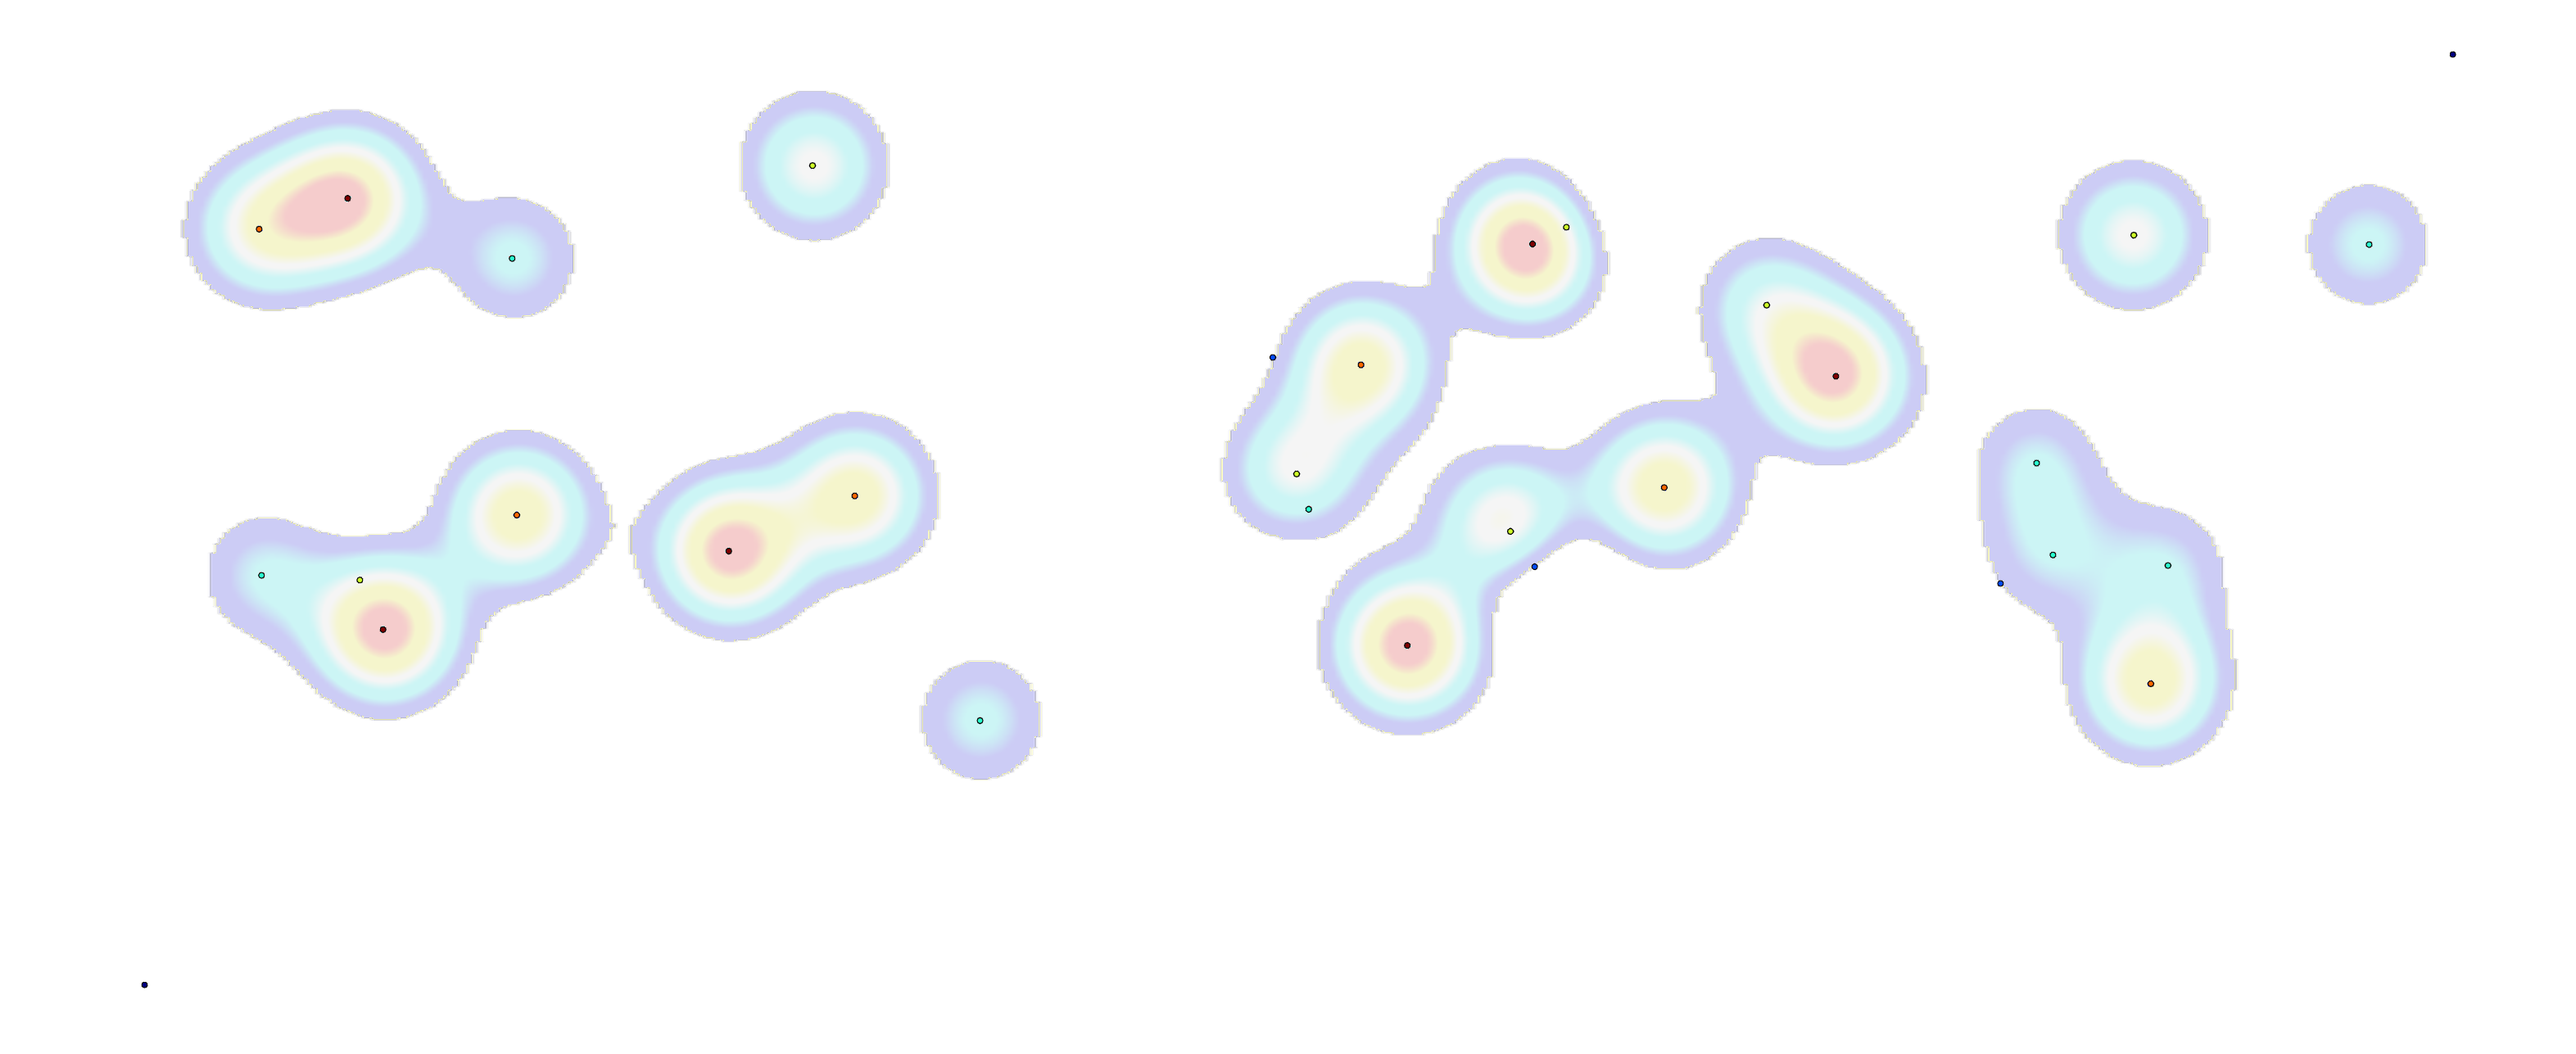
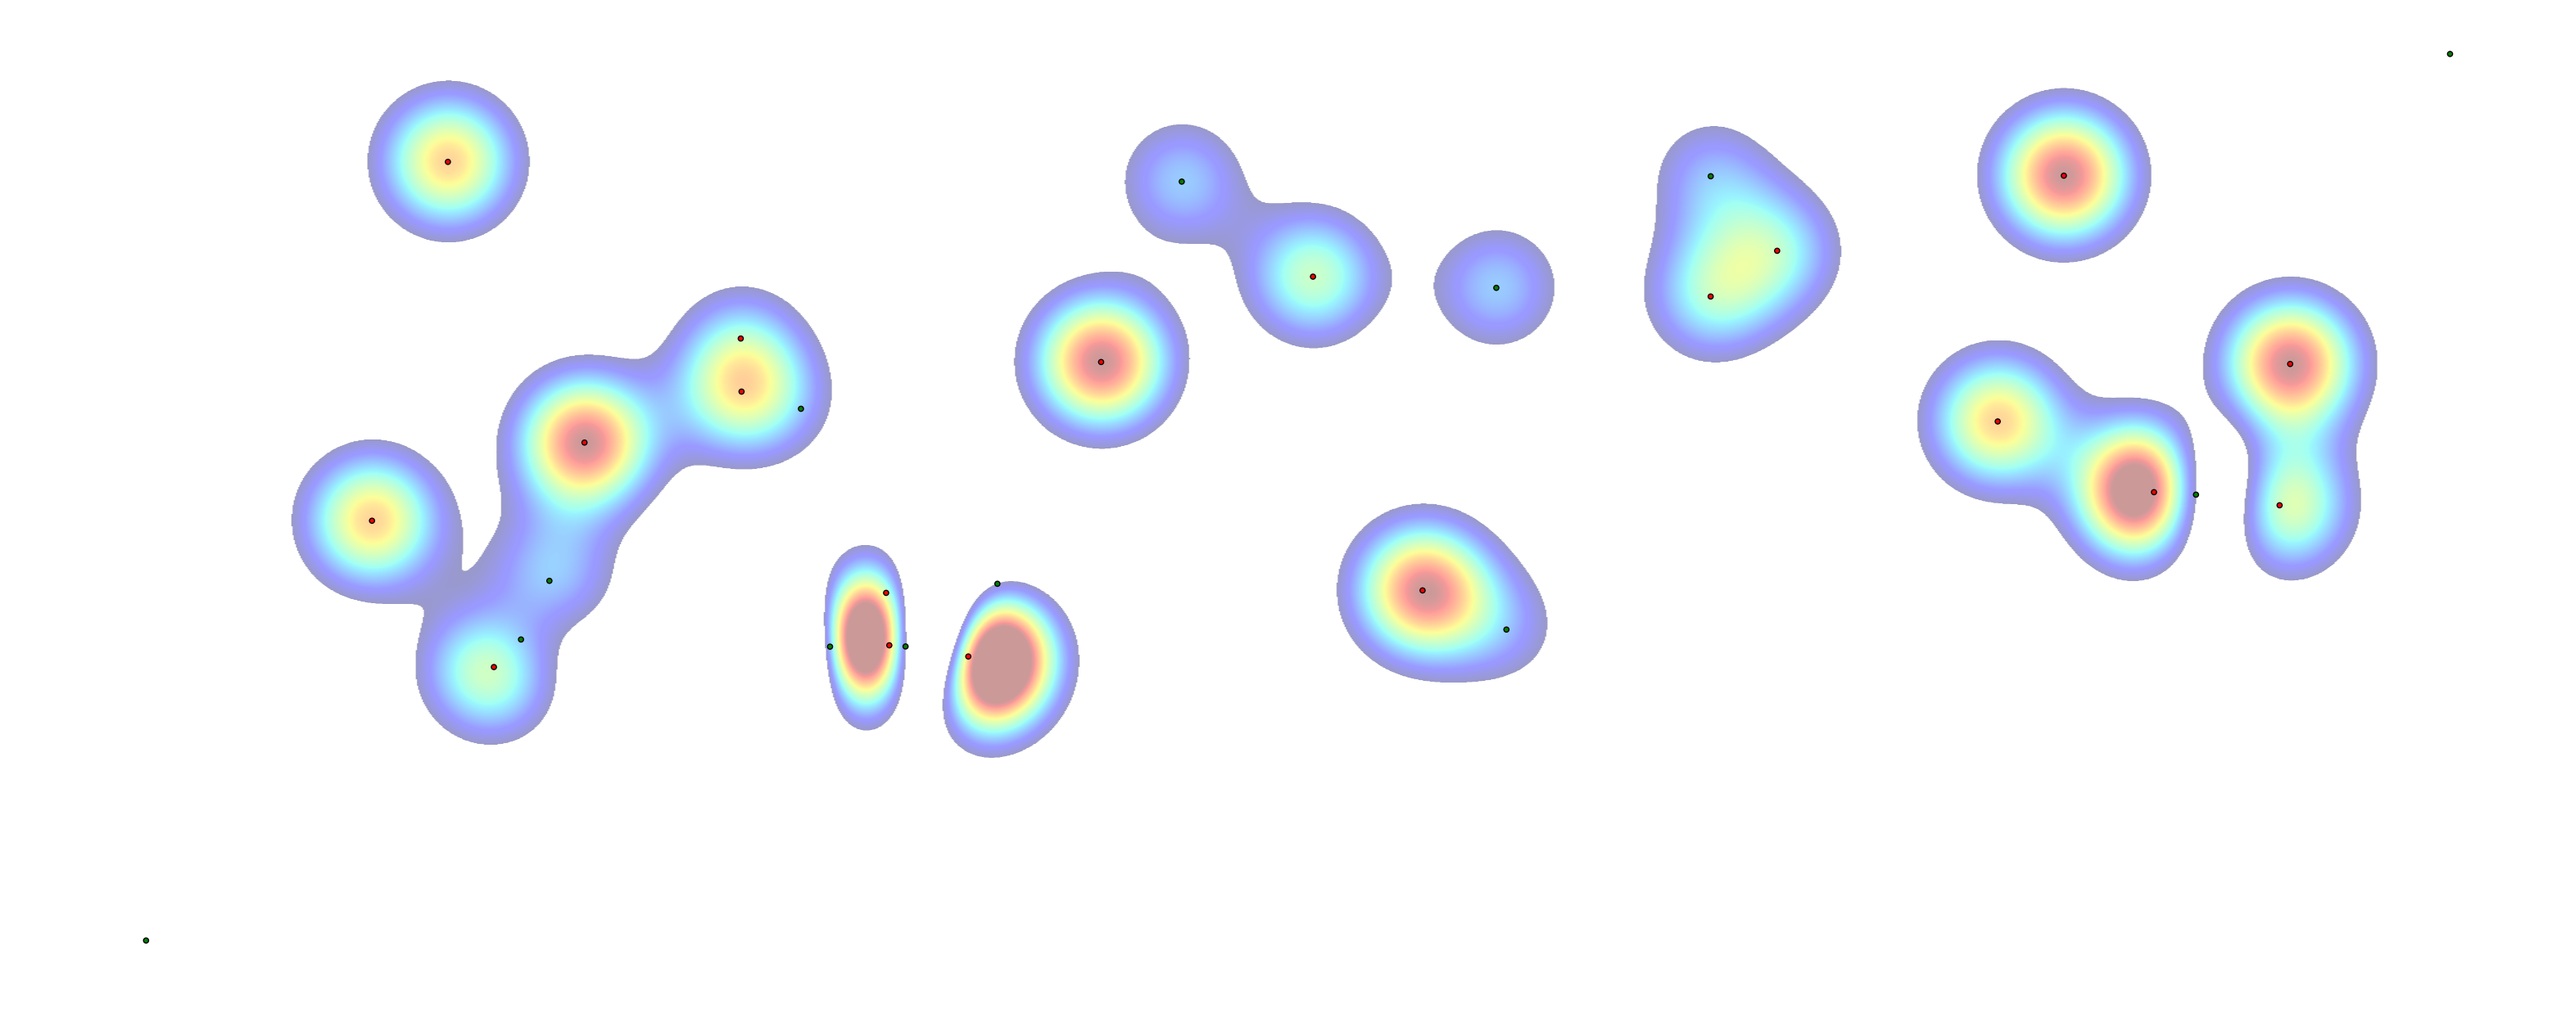
commit before dave resets the instance for more memory... since he can't remember stuff

diff --git a/django_basic/mysite/yelpviz/gen_map.py b/django_basic/mysite/yelpviz/gen_map.py
@@ -1,0 +1,74 @@
+import numpy as np
+from numpy import ma
+import matplotlib.pyplot as plt
+import scipy.interpolate
+from scipy import misc
+from pylab import *
+import pylab
+import views
+import cx_Oracle
+
+def generate_map(x, y, z, output):
+	print(x)
+	print(y)
+	print(z)
+
+	# Setting boundaries of images (should be same at maps.html)
+	# x = np.insert(x, 0, -129.3) # At position 0 SW long
+	# x = np.insert(x, 1, -62.3) # At position 1 NE long
+	# y = np.insert(y, 0, 23.7) # At position 0 SW lat
+	# y = np.insert(y, 1, 49.5) # At position 1 NE lat
+	# z = np.insert(z, 0, 0) # 0 stars for bound
+	# z = np.insert(z, 1, 0) # 0 stars for bound
+
+	# Set up a regular grid of interpolation points
+	xi, yi = np.linspace(x.min(), x.max(), 500), np.linspace(y.min(), y.max(), 500)
+	xi, yi = np.meshgrid(xi, yi)
+
+	rbf = scipy.interpolate.Rbf(x, y, z, function='gaussian', epsilon=2, smooth=0.0)
+	# rbf = scipy.interpolate.Rbf(x, y, z, function='linear', smooth=0.0)
+	zi = rbf(xi, yi)
+
+	# Mask to remove ratings less than 1
+	zi[zi < 1] = 0
+	mask = ma.masked_where(zi < 1, zi)
+
+	# Generate figure from interpolation points
+	plt.figure(figsize=(40,20))
+	plt.imshow(mask, vmin=1, vmax=5, origin='lower',
+	           extent=[x.min(), x.max(), y.min(), y.max()], alpha = 0.4)
+
+	# Plot the actual positions
+
+	col_map = matplotlib.colors.ListedColormap(['green', 'red'])
+	plt.scatter(x, y, c=z, cmap=col_map)
+	plt.axis('off')
+	#plt.colorbar()
+	#plt.show()
+	savefig(output, transparent = True, bbox_inches='tight')
+
+if __name__ == '__main__':
+	sql = "Select b.latitude, b.longitude, br.avg_rating " + \
+		"From business b, business_rating br " + \
+		"Where b.business_id = br.business_id " + \
+		"And b.name = 'McDonald''s' ORDER BY br.avg_rating DESC"
+
+	con = cx_Oracle.connect(views.rds_conn_str)
+	cur = con.cursor()
+	cur.execute(sql)
+	result = cur.fetchall()
+	data = np.zeros((len(result), 3))
+
+	i = 0
+	for row in result:
+		data[i, 0] = row[0]
+		data[i, 1] = row[1]
+		data[i, 2] = row[2]
+		i += 1
+
+	#x = -126.7+61.8*np.random.rand(30)
+	#y = 16.7*np.random.rand(30) + 30.7
+	#z = [3, 2, 3, 4, 5, 5, 4, 2, 1, 1, 2, 2, 3, 4, 5, 5, 4, 2, 1, 2, 3, 2, 3, 4, 5, 3, 2, 3, 4, 5]
+	generate_map(data[:, 1], data[:, 0], data[:, 2], 'tmp.png')
+	# generate_map(x, y, z, 'tmp.png')
+
